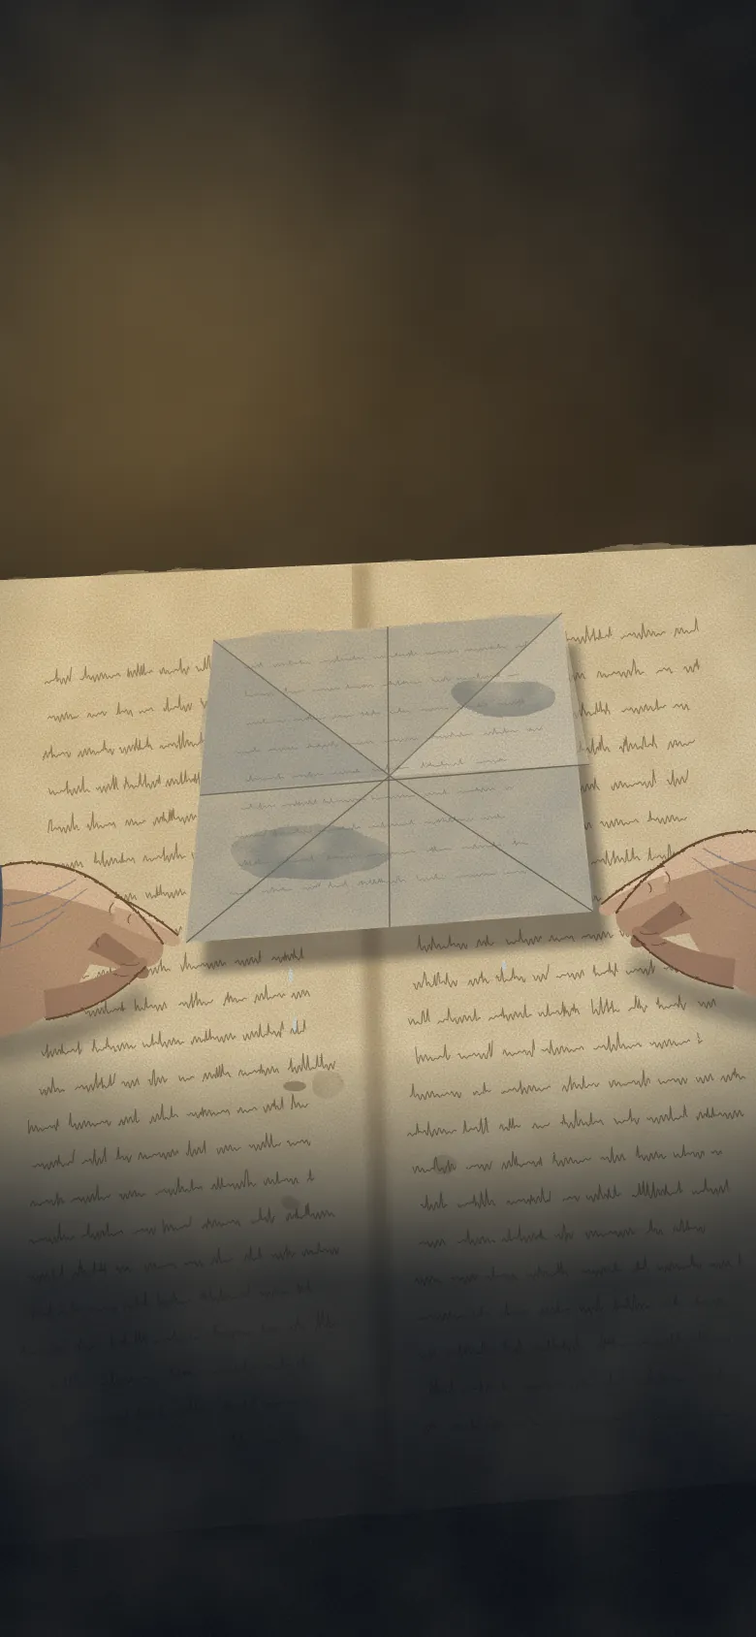
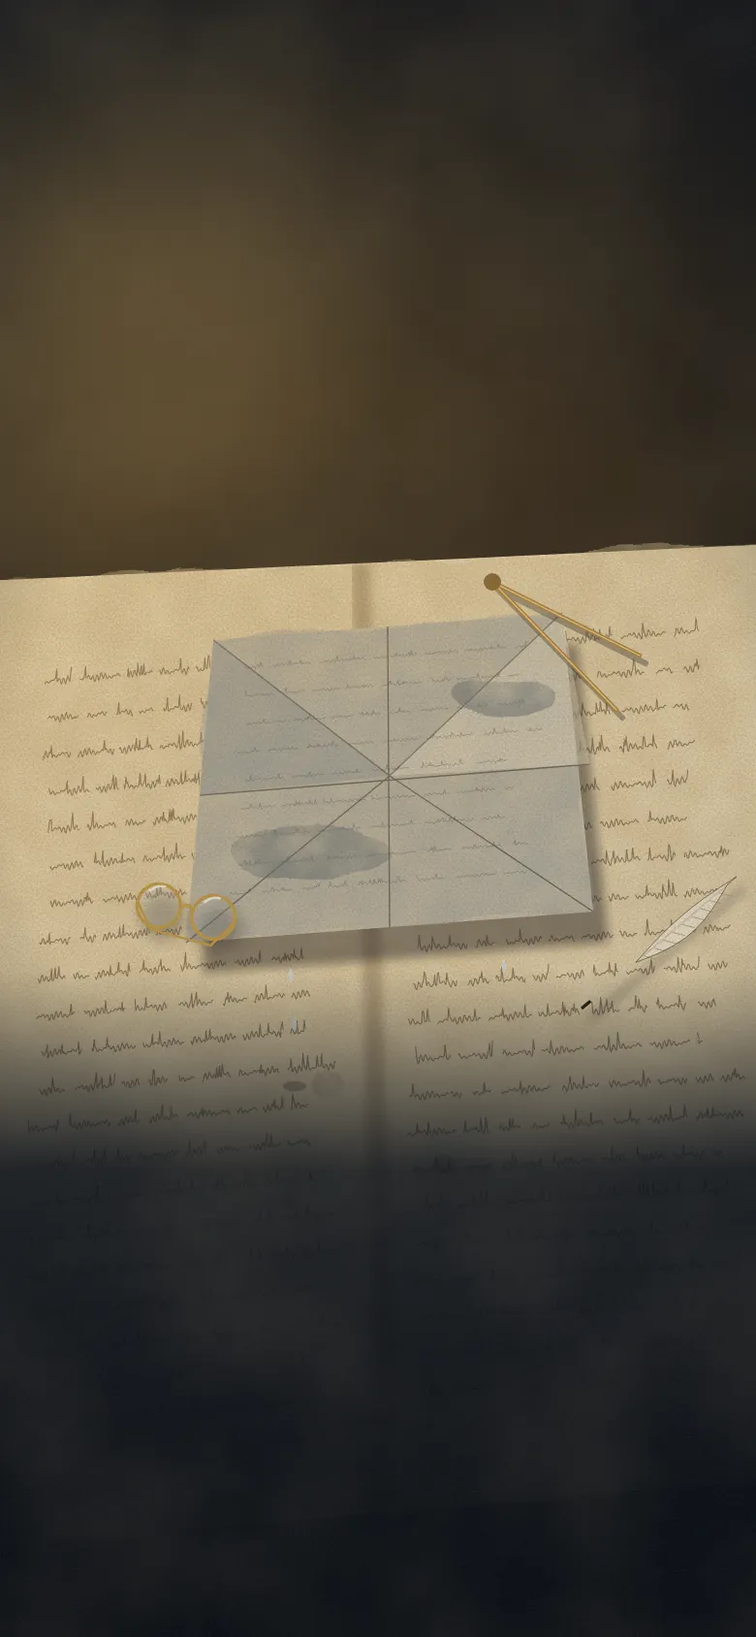
play: Paper Voyage paper fold, Great Book menu, new story art

Changed region(s): [[0.0, 0.4929, 1.0, 0.8009], [0.6462, 0.3389, 0.8308, 0.4313], [0.8308, 0.4005, 0.8615, 0.4313]]

diff --git a/site/play/paper-voyage/index.html b/site/play/paper-voyage/index.html
@@ -141,7 +141,7 @@
   .canal canvas { width: 14px; height: 16px; }
   .duo { display: flex; gap: 10px; }
   .duo button { flex: 1; min-width: 0; padding: 0 6px; }
-  #pret .duo { margin-top: 12px; pointer-events: auto; }
+  #pret .duo { width: min(100%, 360px); margin-top: 12px; pointer-events: auto; }
   #pret .duo button { margin-top: 0; }
   .pellicule { font-size: 20px; line-height: 1; }
 
@@ -220,26 +220,19 @@
   .page-livre article canvas { grid-row: 1 / 3; width: 64px; height: 64px; }
   .page-livre article p { margin: 2px 0 0; font-size: 17px; line-height: 1.3; }
   #pliage { z-index: 9; position: fixed; inset: 0; display: flex; align-items: center; justify-content: center; overflow: hidden; background: rgba(21, 28, 41, .96); }
-  .plieuse { position: relative; width: 210px; height: 210px; perspective: 700px; animation: tourne .5s 1.25s ease-in forwards; }
-  .plieuse b, .plieuse i { position: absolute; inset: 0; background: var(--papier, #efe6d2); }
-  .plieuse b { clip-path: polygon(50% 0, 100% 50%, 50% 100%, 0 50%); box-shadow: inset 0 0 40px rgba(46, 58, 79, .18); }
-  .plieuse i { backface-visibility: visible; filter: drop-shadow(0 2px 3px rgba(21, 28, 41, .4)); animation: .32s ease-in-out forwards; }
-  .plieuse i:nth-child(2) { clip-path: polygon(0 0, 50% 0, 0 50%); transform-origin: 25% 25%; animation-name: plia; animation-delay: .1s; }
-  .plieuse i:nth-child(3) { clip-path: polygon(100% 0, 100% 50%, 50% 0); transform-origin: 75% 25%; animation-name: plib; animation-delay: .4s; }
-  .plieuse i:nth-child(4) { clip-path: polygon(100% 100%, 50% 100%, 100% 50%); transform-origin: 75% 75%; animation-name: plia; animation-delay: .7s; }
-  .plieuse i:nth-child(5) { clip-path: polygon(0 100%, 0 50%, 50% 100%); transform-origin: 25% 75%; animation-name: plib; animation-delay: 1s; }
-  @keyframes plia { to { transform: rotate3d(1, -1, 0, 180deg); background: color-mix(in srgb, var(--papier, #efe6d2) 82%, #2e3a4f); } }
-  @keyframes plib { to { transform: rotate3d(1, 1, 0, 180deg); background: color-mix(in srgb, var(--papier, #efe6d2) 82%, #2e3a4f); } }
-  @keyframes tourne { to { transform: rotate(540deg) scale(.08); opacity: 0; } }
-  .eclair { position: absolute; inset: 0; background: #fffdf6; opacity: 0; animation: eclair .5s 1.7s ease-out; pointer-events: none; }
+  #pliage canvas.plieuse { position: relative; width: min(94vw, 380px); height: min(94vw, 380px); background: radial-gradient(closest-side, color-mix(in srgb, var(--lueur, #fff) 24%, transparent), transparent); transition: opacity .16s; }
+  #pliage.ouvert canvas.plieuse { opacity: 0; }
+  .eclair { position: absolute; inset: 0; background: #fffdf6; opacity: 0; pointer-events: none; }
+  .ouvert .eclair { animation: eclair .5s ease-out; }
   @keyframes eclair { 0% { opacity: 0; } 15% { opacity: 1; } 100% { opacity: 0; } }
-  .revele { position: absolute; inset: 0; display: flex; flex-direction: column; align-items: center; justify-content: center; gap: 12px; padding: 24px; box-sizing: border-box; color: #fffdf6; text-align: center; opacity: 0; animation: apparait .3s 1.75s forwards; }
+  .revele { position: absolute; inset: 0; display: flex; flex-direction: column; align-items: center; justify-content: center; gap: 12px; padding: 24px; box-sizing: border-box; color: #fffdf6; text-align: center; opacity: 0; pointer-events: none; }
+  .ouvert .revele { pointer-events: auto; animation: apparait .3s .05s forwards; }
   @keyframes apparait { to { opacity: 1; } }
   .rayons { position: absolute; left: 50%; top: 36%; width: 170vmax; height: 170vmax; margin: -85vmax 0 0 -85vmax; background: repeating-conic-gradient(var(--lueur, #fff) 0 9deg, transparent 9deg 24deg); opacity: .22; -webkit-mask-image: radial-gradient(closest-side, #000 8%, transparent 62%); mask-image: radial-gradient(closest-side, #000 8%, transparent 62%); animation: rayons 16s linear infinite; }
   @keyframes rayons { to { transform: rotate(360deg); } }
-  .revele canvas.bateau-vu { position: relative; width: 250px; height: 250px; animation: jaillit .6s 1.75s cubic-bezier(.2, 1.7, .4, 1) backwards; filter: drop-shadow(0 0 22px var(--lueur, #fff)); }
+  .revele canvas.bateau-vu { position: relative; width: 250px; height: 250px; animation: jaillit .6s .05s cubic-bezier(.2, 1.7, .4, 1) backwards; filter: drop-shadow(0 0 22px var(--lueur, #fff)); }
   @keyframes jaillit { from { transform: scale(.2) rotate(-16deg); } }
-  .revele canvas.tampon { position: relative; width: 58px; height: 58px; animation: tampon .4s 2.2s ease-out backwards; }
+  .revele canvas.tampon { position: relative; width: 58px; height: 58px; animation: tampon .4s .5s ease-out backwards; }
   .revele h2 { position: relative; margin: 0; font-family: "Caveat Brush", cursive; font-weight: 400; font-size: 42px; line-height: 1; }
   .revele span { position: relative; font-size: 14px; letter-spacing: .06em; text-transform: uppercase; color: var(--lueur, #fff); }
   .revele p { position: relative; margin: 0; max-width: 34ch; font-size: 16px; line-height: 1.4; font-weight: 700; }
@@ -247,7 +240,7 @@
   .fin-soin { display: flex; gap: 8px; }
   .fin-soin button { flex: 1; min-width: 0; padding: 0 6px; font-size: 16px; }
   .fin-soin button.video { font-size: 15px; }
-  @media (prefers-reduced-motion: reduce) { .plieuse, .eclair { display: none; } .revele { animation-delay: 0s; } .revele canvas.bateau-vu, .revele canvas.tampon { animation: none; } .rayons { animation: none; } }
+  @media (prefers-reduced-motion: reduce) { .plieuse, .eclair { display: none; } .ouvert .revele { animation-delay: 0s; } .revele canvas.bateau-vu, .revele canvas.tampon { animation: none; } .rayons { animation: none; } }
   .fiche.equipe { border: 2.5px solid #2f7591; }
   .fiche .eau { display: flex; justify-content: center; border-radius: 9px; background: #7cc0d0 url(assets/printemps-eau.webp) center / 240px; overflow: hidden; }
   .fiche canvas { width: 92px; height: 92px; display: block; }
@@ -323,6 +316,7 @@
   <div class="duo" id="pretMenus" hidden>
     <button id="pretBoutique" data-t="boutique"></button>
     <button id="pretCarnet" data-t="carnet"></button>
+    <button id="pretLivre" data-t="livreCourt"></button>
   </div>
 </div>
 
@@ -371,7 +365,6 @@
       <h1 data-t="carnet"></h1>
       <button class="retour" id="voyageProfil" data-a="profil"></button>
     </div>
-    <button id="voyageLivre" class="video" data-t="grandLivre"></button>
     <button id="voyageRelire" class="discret" data-t="relire" hidden></button>
     <div id="voyageMondes" style="display: flex; flex-direction: column; gap: 10px"></div>
     <p class="note" data-t="noteVoyage"></p>
@@ -401,7 +394,7 @@
     <div class="boutons">
       <button id="pauseReprendre" data-t="reprendre"></button>
       <button id="pauseRecommencer" class="discret" data-t="recommencer"></button>
-      <div class="duo"><button id="pauseBoutique" class="discret" data-t="boutique"></button><button id="pauseCarnet" class="discret" data-t="carnet"></button></div>
+      <div class="duo"><button id="pauseBoutique" class="discret" data-t="boutique"></button><button id="pauseCarnet" class="discret" data-t="carnet"></button><button id="pauseLivre" class="discret" data-t="livreCourt"></button></div>
     </div>
   </div>
 </div>
@@ -499,7 +492,7 @@ const T = FR ? {
   profil: 'Profil', tampon: 'Ton tampon', changer: 'Changer', noteVoyage: 'Chaque monde compte 5 canaux, et jusqu\'à 3 étoiles par canal.',
   ouvertApres: m => `Après « ${m} »`, enCours: 'En cours', termine: 'Terminé', etoilesSur: (e, t) => `${e} / ${t} étoiles`,
   finale: 'Dernier canal !', passer: 'Passer', suivante: 'Suite', terminer: 'Fermer', auPhare: 'Rejoindre le phare', lire: 'Lire',
-  grandLivre: 'Le Grand Livre', pageTrouvee: 'Page retrouvée !', pagesSur: (n, t) => `${n} page${s_(n)} sur ${t}`, pagePerdue: 'Page encore perdue',
+  grandLivre: 'Le Grand Livre', livreCourt: 'Grand Livre', pageTrouvee: 'Page retrouvée !', pagesSur: (n, t) => `${n} page${s_(n)} sur ${t}`, pagePerdue: 'Page encore perdue',
   offert: 'Offert', cadeau: 'Choisis un bateau, il t\'est offert.',
   mondes: { printemps: 'Canaux de printemps', ete: "Marais d'été", automne: "Ville d'automne", hiver: "Cimes d'hiver", nuit: 'Nuit des lanternes' },
   raretes: { commune: 'Normal', rare: 'Rare', epique: 'Épique', legendaire: 'Légendaire' },
@@ -547,7 +540,7 @@ const T = FR ? {
   profil: 'Profile', tampon: 'Your stamp', changer: 'Change', noteVoyage: 'Each world has 5 canals, with up to 3 stars per canal.',
   ouvertApres: m => `Opens after ${m}`, enCours: 'In progress', termine: 'Finished', etoilesSur: (e, t) => `${e} / ${t} stars`,
   finale: 'Last canal of this world!', passer: 'Skip', suivante: 'Next', terminer: 'Close', auPhare: 'Reach the lighthouse', lire: 'Read',
-  grandLivre: 'The Great Book', pageTrouvee: 'Page found!', pagesSur: (n, t) => `${n} of ${t} page${s_(t)}`, pagePerdue: 'Still lost',
+  grandLivre: 'The Great Book', livreCourt: 'Great Book', pageTrouvee: 'Page found!', pagesSur: (n, t) => `${n} of ${t} page${s_(t)}`, pagePerdue: 'Still lost',
   offert: 'Free', cadeau: 'Pick a boat. It\'s a gift!',
   mondes: { printemps: 'Spring Canals', ete: 'Summer Marsh', automne: 'Autumn Town', hiver: 'Winter Peaks', nuit: 'Lantern Night' },
   raretes: { commune: 'Common', rare: 'Rare', epique: 'Epic', legendaire: 'Legendary' },
@@ -642,6 +635,7 @@ const son = {
     s.connect(f).connect(g).connect(this.master);
     s.start(t0, Math.random() * 1.5, duree + 0.05);
   },
+  pli() { this.souffle('bandpass', 2400, 900, 0.14, 0.1, 0.8); },
   note(freq, retard, duree, gain, type = 'sine', vers = freq) {
     if (!this.ctx) return;
     const c = this.ctx, t0 = c.currentTime + retard;
@@ -862,7 +856,7 @@ function start(n, direct = false, bonus = null) {
   $('pretMenus').hidden = store.get('fleurs', 0) === 0 && store.get('niveau', 1) === 1;
   $('pretLogo').hidden = n > 1;
   const ouverture = n > 1 && n % CANAUX_MONDE === 1 ? H.chapitres[chapitreDe(n)].depart : null;
-  $('pretPortrait').replaceChildren(...(ouverture && images.sprites ? [imageRecit('capitaine-mains')] : []));
+  $('pretPortrait').replaceChildren(...(ouverture && images.sprites ? [imageRecit('capitaine-casquette')] : []));
   $('pretTexte').textContent = ouverture || n === 1 ? ouverture || T.depart1(estTactile) : n === 2 ? T.depart2 : n === 3 ? T.depart3 : T.depart4;
 }
 
@@ -1295,7 +1289,7 @@ function end(won) {
   const menus = () => {
     const duo = document.createElement('div');
     duo.className = 'duo';
-    for (const [label, fn] of [[T.boutique, () => ouvrirBoutique()], [T.carnet, ouvrirCarnet]]) {
+    for (const [label, fn] of [[T.boutique, () => ouvrirBoutique()], [T.carnet, ouvrirCarnet], [T.livreCourt, () => ouvrirLivre()]]) {
       const el = document.createElement('button');
       el.textContent = label; el.className = 'discret';
       el.addEventListener('click', fn);
@@ -1484,7 +1478,7 @@ function relireHistoire() {
   H.intro.forEach((t, i) => ajoute(T.relireIntro, IMAGES_INTRO[i], t));
   H.chapitres.forEach((c, i) => {
     const groupe = `${i + 1}. ${c.titre}`;
-    ajoute(groupe, 'capitaine-mains', c.depart);
+    ajoute(groupe, 'capitaine-casquette', c.depart);
     ajoute(groupe, 'page-perdue', `${T.pageTrouvee} ${c.titre}. ${c.trouve}`);
     c.bateaux.forEach(([nom, epoque, texte], j) => ajoute(groupe, 'vignette-' + BATEAUX_LIVRE[i][j], `${nom} (${epoque}) : ${texte}`));
   });
@@ -1662,13 +1656,167 @@ function ficheHistoire(id) {
   return c < 0 ? null : H.chapitres[c].bateaux[BATEAUX_LIVRE[c].indexOf(id)];
 }
 
-// A sheet folds itself, spins away in a flash, and the new boat bursts out.
+// ---------- A page folded into a paper boat ----------
+// The sheet is cut along its creases. Each fold is a rotation of some facets, then the sides are pulled open.
+const FACETTES = {
+  bt: [[0, 0], [-1.5, -1.5], [1.5, -1.5]], bg: [[0, 0], [-1.5, 0], [-1.5, -1.5]], bd: [[0, 0], [1.5, -1.5], [1.5, 0]], bb: [[-1.5, -1.5], [-1.5, -2], [1.5, -2], [1.5, -1.5]],
+  ft: [[0, 0], [-1.5, 1.5], [1.5, 1.5]], fg: [[0, 0], [-1.5, 0], [-1.5, 1.5]], fd: [[0, 0], [1.5, 1.5], [1.5, 0]], fb: [[-1.5, 1.5], [-1.5, 2], [1.5, 2], [1.5, 1.5]],
+};
+const PLIS = [
+  { de: .3, a: .7, quoi: 'ft fg fd fb', o: [0, 0], d: [1, 0], angle: Math.PI },
+  { de: .72, a: 1.02, quoi: 'fg bg', o: [0, 0], d: [-Math.SQRT1_2, -Math.SQRT1_2], angle: -Math.PI },
+  { de: .88, a: 1.18, quoi: 'fd bd', o: [0, 0], d: [Math.SQRT1_2, -Math.SQRT1_2], angle: Math.PI },
+  { de: 1.2, a: 1.46, quoi: 'fb', o: [0, -1.5], d: [1, 0], angle: -Math.PI },
+  { de: 1.62, a: 1.9, quoi: 'bb', o: [0, -1.5], d: [1, 0], angle: Math.PI },
+];
+const OUVERTURE = [1.92, 2.42], FIN_PLIAGE = 2.62, COUPS_PLI = [.3, .72, .88, 1.2, 1.62, 1.92];
+const VOILE_H = [0, .35, 0], VOILE_G = [-.95, -.9, 0], VOILE_D = [.95, -.9, 0], VOILE_M = [0, -.9, 0];
+const COQUE = z => [[-1.15, -1.6, z], [-2.15, -.8, 0], [2.15, -.8, 0], [1.15, -1.6, z]];
+const NAVIRE = {
+  bt: [VOILE_H, VOILE_G, VOILE_D], ft: [VOILE_H, VOILE_G, VOILE_D],
+  bg: [VOILE_H, VOILE_M, VOILE_G], fg: [VOILE_H, VOILE_M, VOILE_G],
+  bd: [VOILE_H, VOILE_D, VOILE_M], fd: [VOILE_H, VOILE_D, VOILE_M],
+  fb: COQUE(.34), bb: COQUE(-.34),
+};
+const COULEUR_MOTS = 'rgba(52, 44, 62, .62)';
+const borne = (t, de, a) => Math.min(1, Math.max(0, (t - de) / (a - de)));
+const doux = x => x * x * (3 - 2 * x);
+const rebond = x => 1 + 2.7 * (x - 1) ** 3 + 1.7 * (x - 1) ** 2;
+
+// Rodrigues, for an axis lying in the sheet.
+function tournerPoint([x0, y0, z], o, d, c, s) {
+  const x = x0 - o[0], y = y0 - o[1], k = (d[0] * x + d[1] * y) * (1 - c);
+  return [o[0] + x * c + d[1] * z * s + d[0] * k, o[1] + y * c - d[0] * z * s + d[1] * k, z * c + (d[0] * y - d[1] * x) * s];
+}
+
+// One written page of the book, on the paper of the boat's rarity.
+function feuilleEcrite(papier, lueur, rarete) {
+  const u = 150, c = document.createElement('canvas');
+  c.width = u * 3; c.height = u * 4;
+  const x = c.getContext('2d');
+  x.fillStyle = papier;
+  x.fillRect(0, 0, c.width, c.height);
+  for (let i = 0; i < 1400; i++) {
+    x.fillStyle = `rgba(92, 70, 48, ${Math.random() * .07})`;
+    x.fillRect(Math.random() * c.width, Math.random() * c.height, 1 + Math.random() * 5, 1);
+  }
+  const bord = x.createRadialGradient(c.width / 2, c.height / 2, c.height * .3, c.width / 2, c.height / 2, c.height * .72);
+  bord.addColorStop(0, 'rgba(92, 70, 48, 0)');
+  bord.addColorStop(1, 'rgba(92, 70, 48, .3)');
+  x.fillStyle = bord;
+  x.fillRect(0, 0, c.width, c.height);
+  x.strokeStyle = COULEUR_MOTS; x.lineWidth = 1.5; x.lineCap = 'round';
+  for (let y = 44; y < c.height - 30; y += 21) {
+    let m = 28 + Math.random() * 10;
+    const fin = c.width - 26 - Math.random() * 40;
+    x.beginPath();
+    while (m < fin) {
+      const mot = m + 16 + Math.random() * 38;
+      x.moveTo(m, y + Math.random() * 2);
+      for (let v = m; v < Math.min(mot, fin); v += 5) x.lineTo(v, y + Math.sin(v * 1.1) * 2.2 + Math.random() * 1.4);
+      m = mot + 7 + Math.random() * 6;
+    }
+    x.stroke();
+  }
+  if (rarete === 'epique' || rarete === 'legendaire') {
+    x.strokeStyle = lueur; x.lineWidth = rarete === 'legendaire' ? 5 : 3;
+    x.strokeRect(11, 11, c.width - 22, c.height - 22);
+    if (rarete === 'legendaire') { x.lineWidth = 1.5; x.strokeRect(20, 20, c.width - 40, c.height - 40); }
+  }
+  return { image: c, u };
+}
+
+// Returns the function that draws the fold at time t.
+function plieuse(canvas, papier, lueur, rarete) {
+  const cote = canvas.clientWidth || 340, ratio = Math.min(devicePixelRatio || 1, 2), e = cote * .158;
+  canvas.width = canvas.height = cote * ratio;
+  const x = canvas.getContext('2d'), page = feuilleEcrite(papier, lueur, rarete);
+  const nombre = { commune: 10, rare: 18, epique: 30, legendaire: 46 }[rarete] || 10;
+  const eclats = Array.from({ length: nombre }, () => ({
+    a: Math.random() * 6.28, v: 90 + Math.random() * 170, t0: OUVERTURE[0] + .16 + Math.random() * .2, cote: 2 + Math.random() * 4, tour: Math.random() * 6,
+  }));
+  return t => {
+    const hat = PLIS.map(p => doux(borne(t, p.de, p.a)));
+    const ouvre = borne(t, ...OUVERTURE), tire = rebond(ouvre);
+    const entree = doux(borne(t, 0, .3)), fin = doux(borne(t, OUVERTURE[1], FIN_PLIAGE));
+    const lacet = doux(borne(t, 1.42, 1.82)) * Math.PI + doux(ouvre) * Math.PI + Math.sin(t * 2.6) * .13 * (1 - ouvre);
+    const tangage = .34 - .2 * doux(borne(t, 0, 1.2)) + .08 * doux(ouvre), roulis = (1 - entree) * -.5 + Math.sin(t * 1.9) * .025;
+    const haut = hat[0] * .95 - ouvre * .35, echelle = (.72 + .28 * entree) * (1 + fin * .07) * e;
+    const [cl, sl, ct, st, cr, sr] = [lacet, tangage, roulis].flatMap(v => [Math.cos(v), Math.sin(v)]);
+    const coins = hat[1] > .5, ordre = { bb: 0, bt: 1, ft: 2, bg: coins ? 5 : 1, bd: coins ? 5 : 1, fg: coins ? 4 : 2, fd: coins ? 4 : 2, fb: 6, tout: 0 };
+    // Until the first fold the page is one piece, with no crease to show.
+    const vues = Object.entries(hat[0] ? FACETTES : { tout: [[-1.5, 2], [-1.5, -2], [1.5, -2], [1.5, 2]] }).map(([nom, plat]) => {
+      const pts = plat.map((pt, i) => {
+        let p = [pt[0], pt[1], 0];
+        PLIS.forEach((pl, k) => {
+          if (hat[k] && pl.quoi.includes(nom)) p = tournerPoint(p, pl.o, pl.d, Math.cos(pl.angle * hat[k]), Math.sin(pl.angle * hat[k]));
+        });
+        if (ouvre) { const n = NAVIRE[nom][i]; p = p.map((v, j) => v + (n[j] - v) * tire); }
+        const z = p[2] + ordre[nom] * .014, y = p[1] + haut;
+        const x1 = p[0] * cl + z * sl, z1 = -p[0] * sl + z * cl;
+        const y2 = y * ct - z1 * st, z2 = y * st + z1 * ct;
+        return [x1 * cr - y2 * sr, x1 * sr + y2 * cr, z2];
+      });
+      const [a, b, c] = pts, u = [b[0] - a[0], b[1] - a[1], b[2] - a[2]], v = [c[0] - a[0], c[1] - a[1], c[2] - a[2]];
+      const n = [u[1] * v[2] - u[2] * v[1], u[2] * v[0] - u[0] * v[2], u[0] * v[1] - u[1] * v[0]], l = Math.hypot(...n) || 1;
+      const lumiere = Math.abs(-.42 * n[0] + .55 * n[1] + .72 * n[2]) / l, reflet = Math.abs(-.23 * n[0] + .3 * n[1] + .93 * n[2]) / l;
+      const ecran = pts.map(p => { const k = 8 / (8 - p[2]); return [cote / 2 + p[0] * k * echelle, cote / 2 - p[1] * k * echelle]; });
+      return { nom, plat, ecran, lumiere, reflet, z: pts.reduce((s, p) => s + p[2], 0) / pts.length + ordre[nom] * .002 };
+    }).sort((a, b) => a.z - b.z);
+
+    x.setTransform(ratio, 0, 0, ratio, 0, 0);
+    x.clearRect(0, 0, cote, cote);
+    x.globalAlpha = entree;
+    const trace = p => { x.beginPath(); p.forEach(([a, b], i) => (i ? x.lineTo(a, b) : x.moveTo(a, b))); x.closePath(); };
+    x.save();
+    x.shadowColor = 'rgba(5, 8, 16, .5)'; x.shadowBlur = 26 * ratio; x.shadowOffsetY = (14 + hat[0] * 6) * ratio; x.fillStyle = papier;
+    for (const f of vues) { trace(f.ecran); x.fill(); }
+    x.restore();
+    const marque = Math.min(1, hat[0] * 2);
+    for (const f of vues) {
+      trace(f.ecran);
+      x.fillStyle = x.strokeStyle = papier; x.lineWidth = 1.1;
+      x.fill(); x.stroke();
+      const [[u0, v0], [u1, v1], [u2, v2]] = f.plat.map(([a, b]) => [(a + 1.5) * page.u, (2 - b) * page.u]);
+      const [[x0, y0], [x1, y1], [x2, y2]] = f.ecran, det = (u1 - u0) * (v2 - v0) - (u2 - u0) * (v1 - v0);
+      const a = ((x1 - x0) * (v2 - v0) - (x2 - x0) * (v1 - v0)) / det, c = ((x2 - x0) * (u1 - u0) - (x1 - x0) * (u2 - u0)) / det;
+      const b = ((y1 - y0) * (v2 - v0) - (y2 - y0) * (v1 - v0)) / det, d = ((y2 - y0) * (u1 - u0) - (y1 - y0) * (u2 - u0)) / det;
+      x.save();
+      x.clip();
+      x.transform(a, b, c, d, x0 - a * u0 - c * v0, y0 - b * u0 - d * v0);
+      x.drawImage(page.image, 0, 0);
+      x.restore();
+      trace(f.ecran);
+      x.fillStyle = `rgba(18, 22, 38, ${(1 - f.lumiere) * .62})`;
+      x.fill();
+      x.fillStyle = `rgba(255, 252, 240, ${f.reflet ** 24 * .3})`;
+      x.fill();
+      x.strokeStyle = `rgba(48, 36, 30, ${.42 * marque})`; x.lineWidth = .8;
+      x.stroke();
+    }
+    x.globalAlpha = 1;
+    x.fillStyle = lueur;
+    for (const p of eclats) {
+      const age = t - p.t0;
+      if (age <= 0) continue;
+      x.save();
+      x.translate(cote / 2 + Math.cos(p.a) * p.v * age, cote / 2 + 26 + Math.sin(p.a) * p.v * age + 110 * age * age);
+      x.rotate(p.tour + age * 9);
+      x.globalAlpha = Math.max(0, 1 - age * 1.9);
+      x.fillRect(-p.cote, -p.cote / 2, p.cote * 2, p.cote);
+      x.restore();
+    }
+  };
+}
+
+// A page of the book folds itself into a boat, flashes, and the new boat bursts out. A tap skips the folding.
 function revelerAchat(b, nom, fin) {
   const rarete = b.rarete, [papier, lueur] = PAPIER_RARETE[rarete];
   const el = $('pliage'), fiche = ficheHistoire(b.id);
+  el.classList.remove('ouvert');
   el.style.setProperty('--papier', papier);
   el.style.setProperty('--lueur', lueur);
-  el.innerHTML = `<div class="plieuse"><b></b><i></i><i></i><i></i><i></i></div><div class="eclair"></div>
+  el.innerHTML = `<canvas class="plieuse"></canvas><div class="eclair"></div>
     <div class="revele"><div class="rayons"></div><h2></h2><span></span><p></p><button></button></div>`;
   const zone = el.querySelector('.revele'), vu = icone('vignette-' + b.id, 288);
   vu.className = 'bateau-vu';
@@ -1684,12 +1832,25 @@ function revelerAchat(b, nom, fin) {
   ok.textContent = T.plie;
   ok.onclick = () => { el.hidden = true; el.innerHTML = ''; fin(); };
   el.hidden = false;
-  [100, 400, 700, 1000].forEach(d => setTimeout(() => vibrer(5), calme ? 0 : d));
-  setTimeout(() => {
-    if (el.hidden) return;
+  const ouvrir = () => {
+    el.onclick = null;
+    el.classList.add('ouvert');
     if (rarete === 'legendaire' || rarete === 'epique') son.port(); else son.bonus();
     vibrer(rarete === 'legendaire' ? [30, 40, 30, 40, 60] : 20);
-  }, calme ? 0 : 1750);
+  };
+  if (calme) { ouvrir(); return; }
+  const dessiner = plieuse(el.querySelector('canvas'), papier, lueur, rarete), debut = performance.now();
+  let coup = 0, saute = false;
+  el.onclick = () => { saute = true; };
+  const image = now => {
+    if (el.hidden) return;
+    const temps = (now - debut) / 1000;
+    if (saute || temps >= FIN_PLIAGE) { ouvrir(); return; }
+    if (coup < COUPS_PLI.length && temps >= COUPS_PLI[coup]) { coup++; son.pli(); vibrer(5); }
+    dessiner(temps);
+    requestAnimationFrame(image);
+  };
+  requestAnimationFrame(image);
 }
 
 function ajouterStock(id, n) {
@@ -1880,7 +2041,6 @@ function ouvrirProfil() {
 $('profilCompte').addEventListener('click', connecter);
 $('voyageRetour').addEventListener('click', () => { $('voyage').hidden = true; });
 $('voyageProfil').addEventListener('click', ouvrirProfil);
-$('voyageLivre').addEventListener('click', () => ouvrirLivre());
 // Temporary reading tool, off on Poki. Typing a # in the address doesn't reload a page, so react to it.
 $('voyageRelire').hidden = !!SDK;
 $('voyageRelire').addEventListener('click', relireHistoire);
@@ -1888,6 +2048,7 @@ if (!SDK) addEventListener('hashchange', () => location.reload());
 $('livreRetour').addEventListener('click', () => { $('livre').hidden = true; });
 $('profilRetour').addEventListener('click', () => { $('profil').hidden = true; ouvrirCarnet(); });
 $('pretCarnet').addEventListener('click', ouvrirCarnet);
+$('pretLivre').addEventListener('click', () => ouvrirLivre());
 $('pretBoutique').addEventListener('click', () => ouvrirBoutique());
 $('boutiqueRetour').addEventListener('click', () => { $('boutique').hidden = true; });
 $('btnPause').addEventListener('click', mettrePause);
@@ -1895,6 +2056,7 @@ $('pauseReprendre').addEventListener('click', reprendre);
 $('pauseRecommencer').addEventListener('click', () => { garderPartie(); relancer(level); });
 $('pauseBoutique').addEventListener('click', () => { garderPartie(); ouvrirBoutique(); });
 $('pauseCarnet').addEventListener('click', () => { garderPartie(); ouvrirCarnet(); });
+$('pauseLivre').addEventListener('click', () => { garderPartie(); ouvrirLivre(); });
 // The name stays in this browser and is only ever shown back to the player.
 $('profilNom').addEventListener('input', e => store.set('nom', e.target.value.trim()));
 $('profilNom').addEventListener('keydown', e => { if (e.key === 'Enter') e.target.blur(); });

diff --git a/site/play/paper-voyage/histoire.js b/site/play/paper-voyage/histoire.js
@@ -3,8 +3,8 @@ const HISTOIRES = {
   fr: {
     intro: ["Dans son phare, la capitaine Maren écrivait pour ne pas oublier. Soixante ans de mer tenaient dans un seul livre.",
       "Depuis quelque temps, les noms lui échappaient. Les ports. Les bateaux. Le livre se souvenait pour elle.",
-      "Une nuit, le vent entra. Il voulait seulement regarder. Toutes les pages s'envolèrent.",
-      "À l'aube, il n'en restait qu'une, la toute première. Le vent la plia en bateau. Il ne savait pas réparer autrement.",
+      "Au petit matin, le vent entra. Il voulait seulement regarder. Toutes les pages s'envolèrent.",
+      "Quand il se calma, il n'en restait qu'une, la toute première. Le vent la plia en bateau. Il ne savait pas réparer autrement.",
       "Le vent porte les voix. La sienne le suivit : « Commence par le plus ancien. C'est ce que j'oublierai en dernier. »"],
     fin: ["Le bateau de papier atteignit le pied du phare. Il flottait encore, à peine.",
       "La capitaine remit chaque page à sa place, et chaque nom lui revint. Il en manquait une : la toute première.",
@@ -55,8 +55,8 @@ const HISTOIRES = {
   en: {
     intro: ["In her lighthouse, Captain Maren wrote so she wouldn't forget. Sixty years at sea, kept in a single book.",
       "Lately, names had been slipping away. Harbours. Boats. The book remembered for her.",
-      "One night, the wind came in. It only wanted to look. Every page flew out.",
-      "By dawn only one was left, the very first. The wind folded it into a boat. It knew no other way to make amends.",
+      "Early one morning, the wind came in. It only wanted to look. Every page flew out.",
+      "When it calmed, only one was left, the very first. The wind folded it into a boat. It knew no other way to make amends.",
       "Wind carries voices. Hers followed it: \"Start with the oldest. That's what I'll forget last.\""],
     fin: ["The paper boat reached the foot of the lighthouse. Still afloat, barely.",
       "The captain put each page back, and each name came back to her. One was missing: the very first.",
